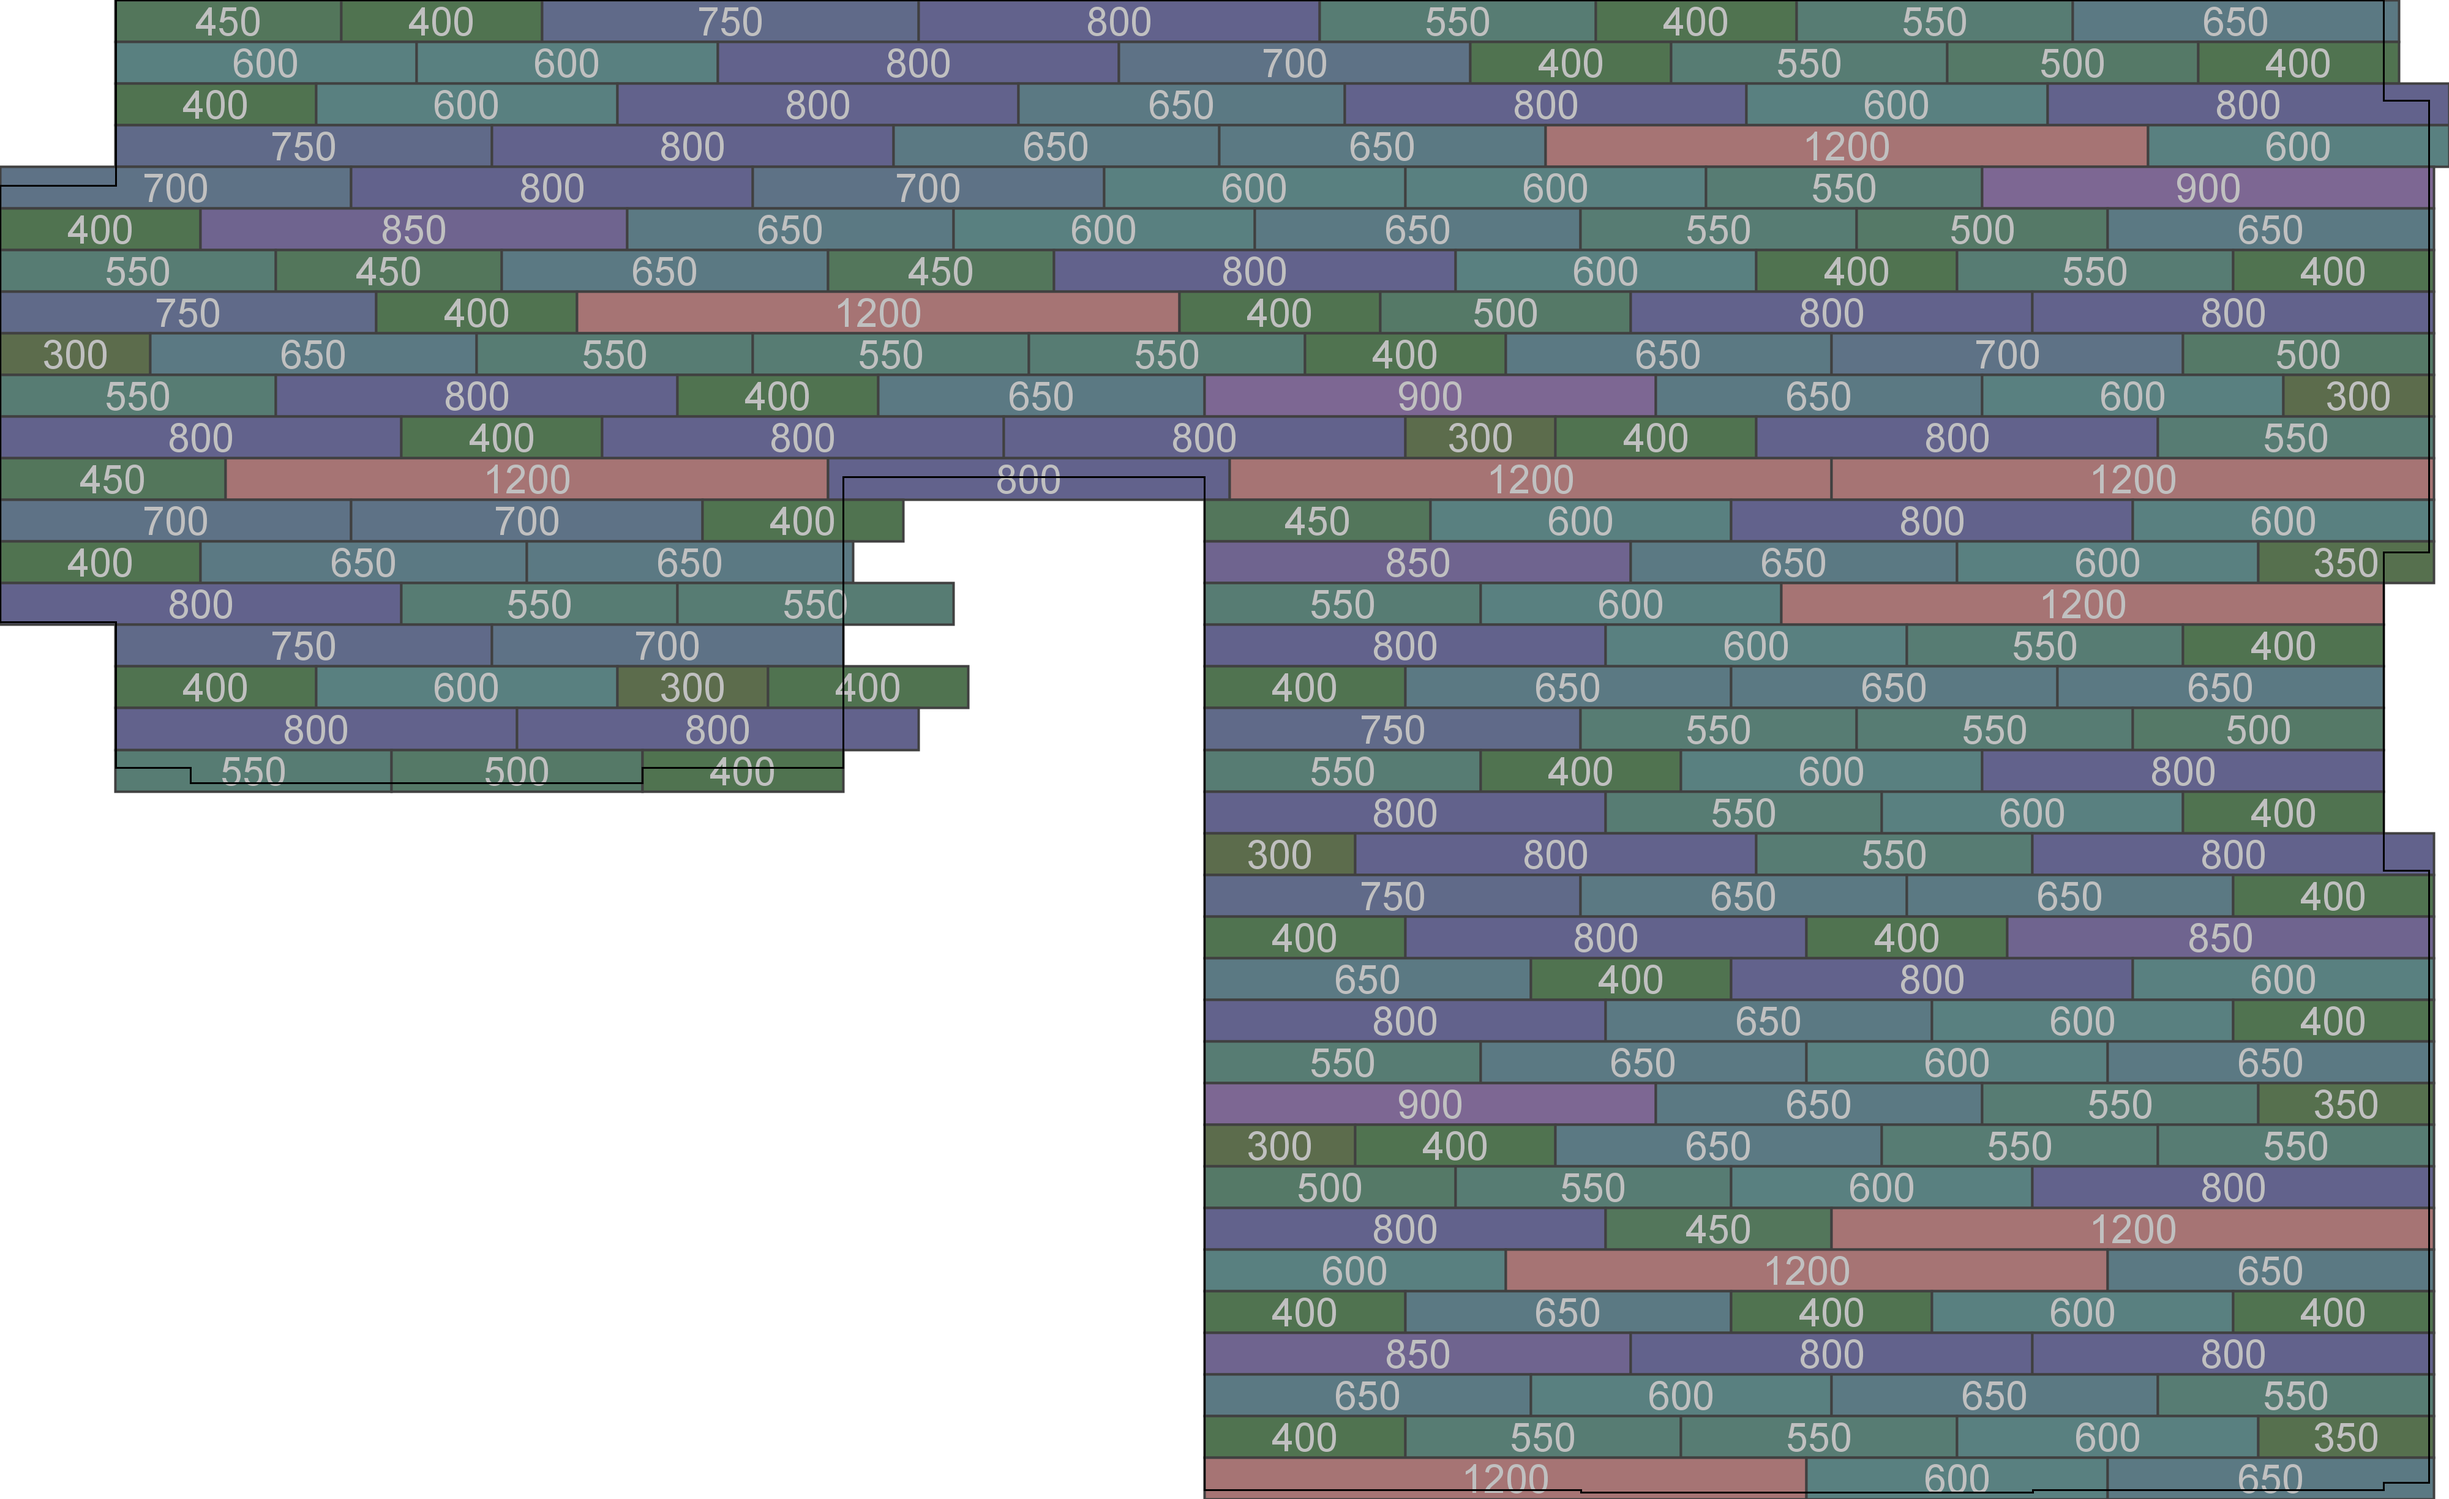
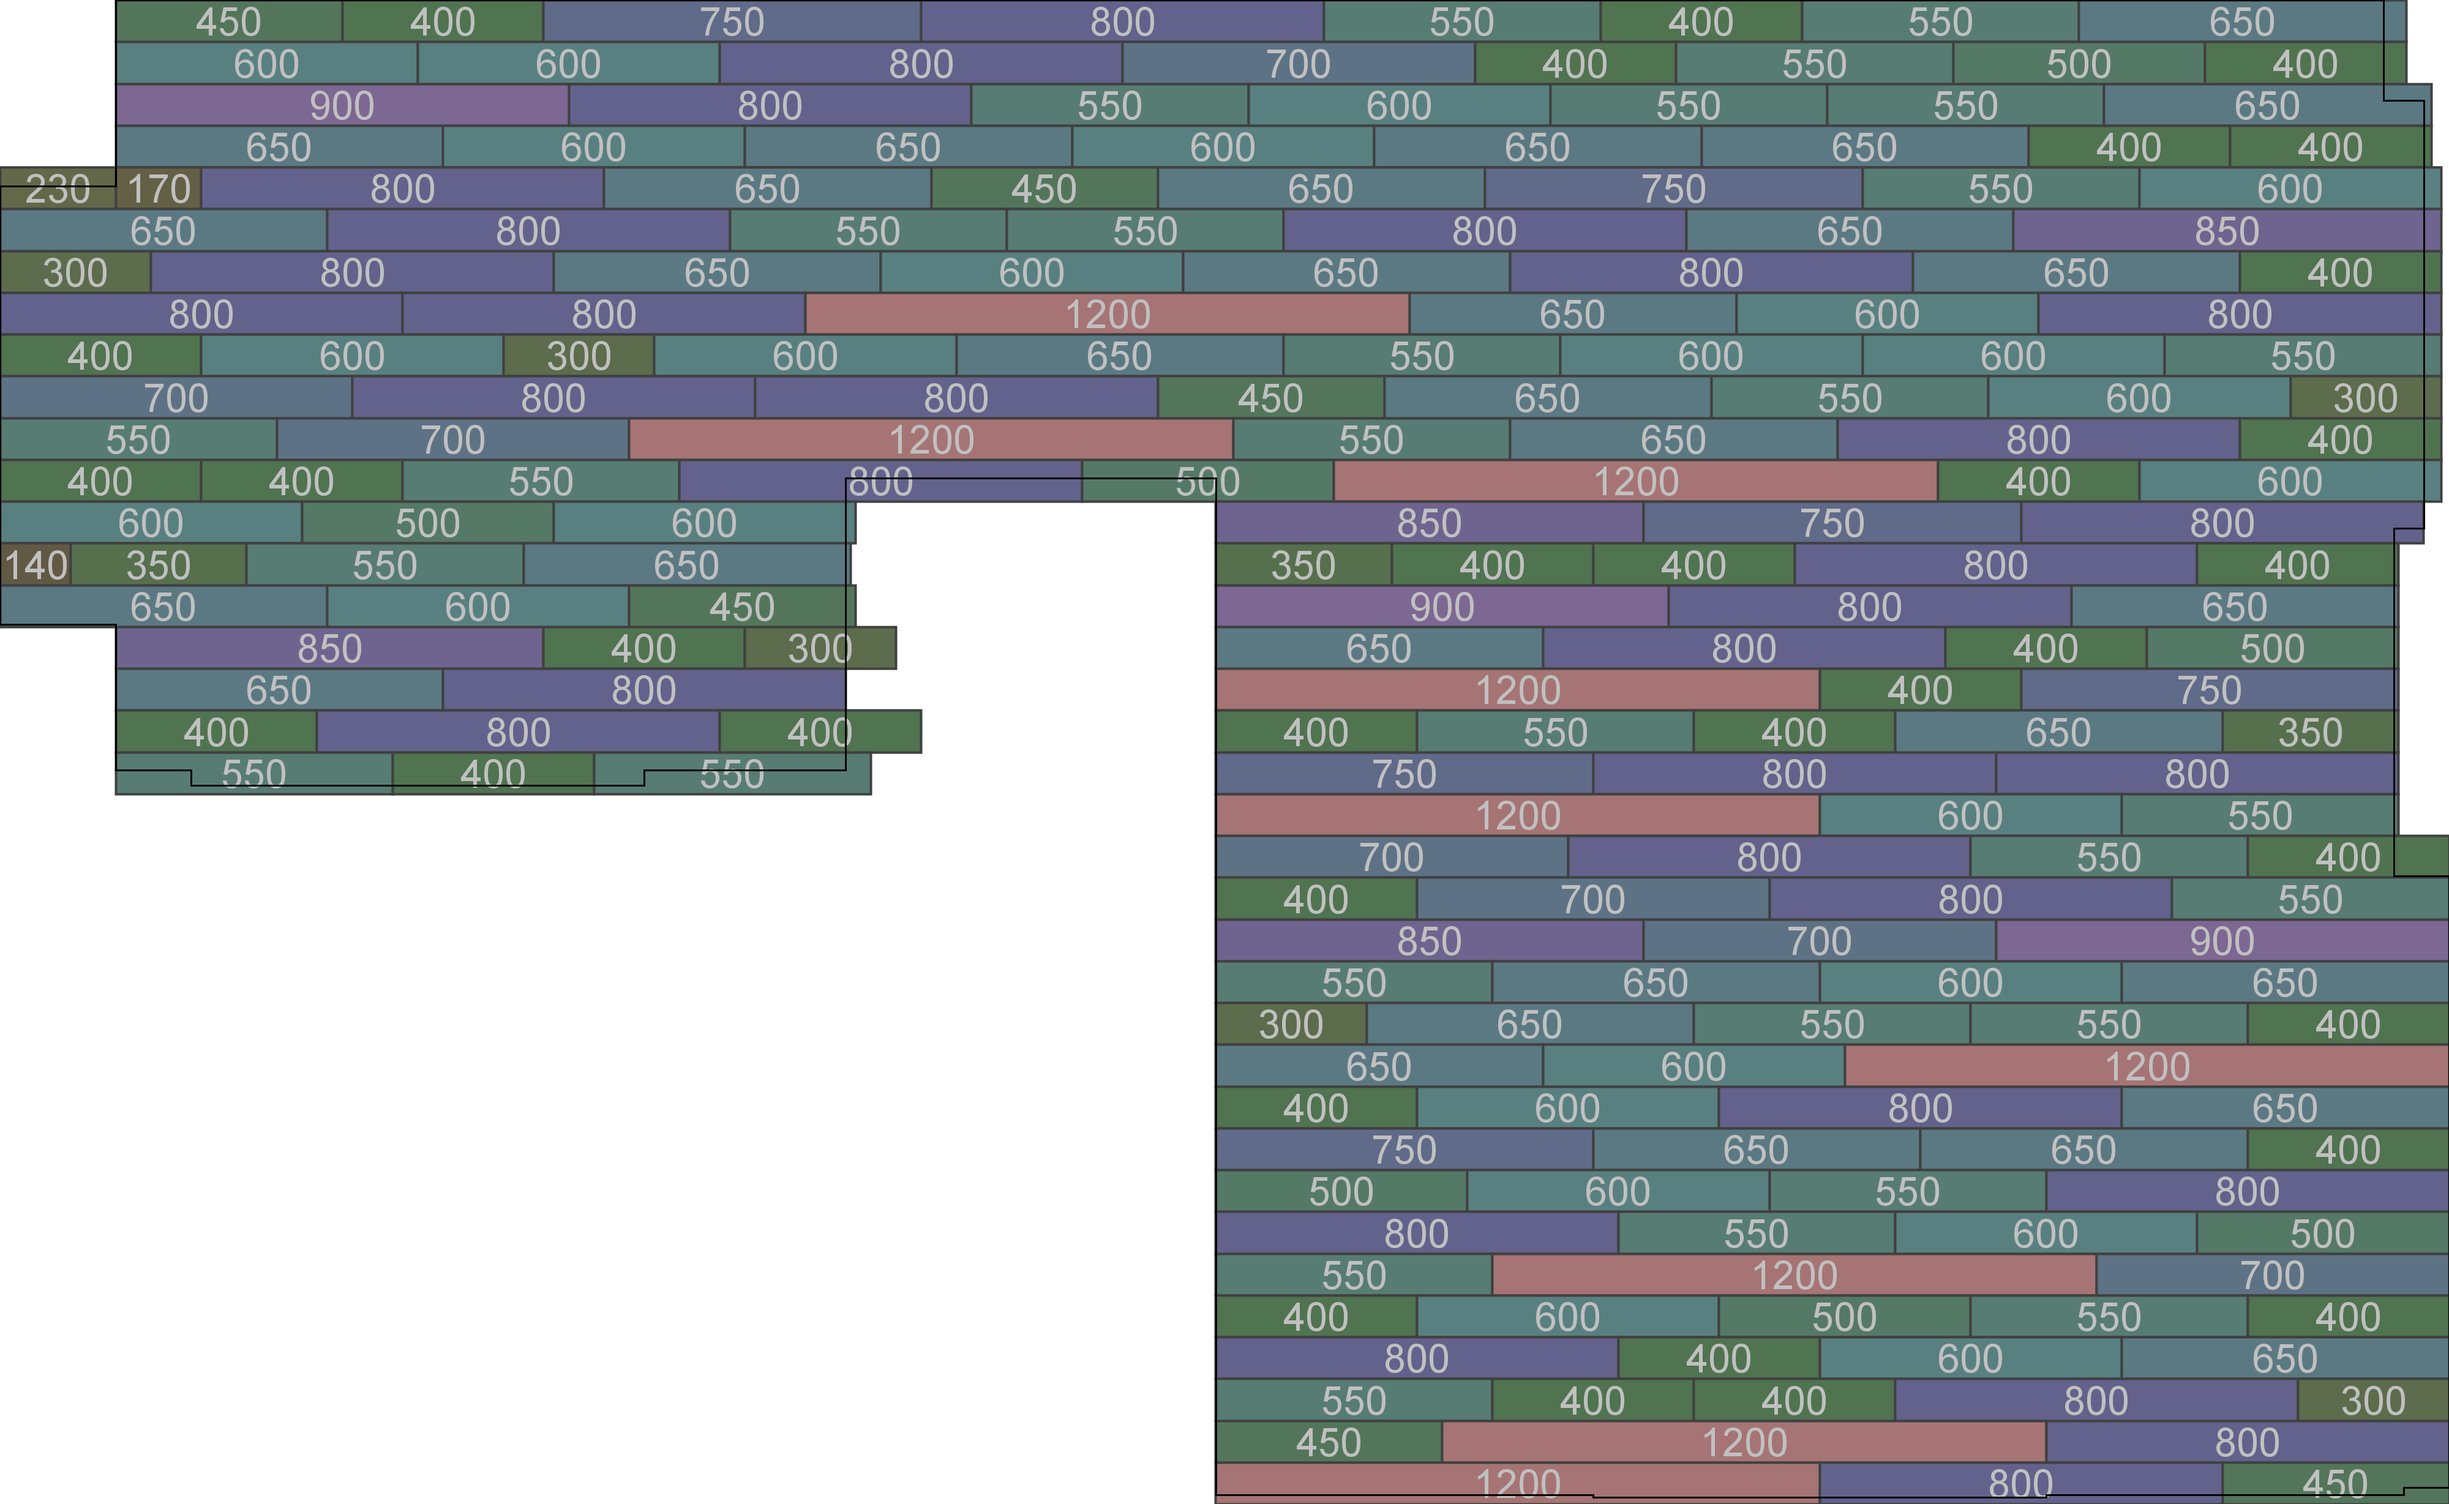
bug fix, manual tweaks to layout

diff --git a/src/main/java/org/burnhams/flooring/PropertiesConfiguration.java b/src/main/java/org/burnhams/flooring/PropertiesConfiguration.java
@@ -35,6 +35,10 @@ public class PropertiesConfiguration implements Configuration {
         return getIntegers("plank.fixed");
     }
 
+    public int[] getUsedPlanks() {
+        return getIntegers("plank.used");
+    }
+
 
     private WallEnclosedFloor getWallEnclosedFloor() {
         if (properties.containsKey("floor.horizontalLength")) {
@@ -101,11 +105,14 @@ public class PropertiesConfiguration implements Configuration {
 
     public Map<Integer, Integer> getPlankLengths() {
         Map<Integer, Integer> result = new HashMap<>();
-        String[] lengths = properties.getProperty("plank.lengths").split(",");
-        for (String length : lengths) {
-            int l = Integer.valueOf(length);
+        int[] lengths = getIntegers("plank.lengths");
+        for (int l: lengths) {
             int c = getInteger("plank."+l);
             result.put(l,c);
+        }
+        int[] used = getUsedPlanks();
+        for (int u : used) {
+            result.put(u, result.get(u)-1);
         }
         return result;
     }

diff --git a/src/main/java/org/burnhams/flooring/FloorSolution.java b/src/main/java/org/burnhams/flooring/FloorSolution.java
@@ -419,8 +419,7 @@ public class FloorSolution extends Solution<Plank> implements PreEvaluatable {
     public int getUnswappableRows() {
         int fixedLength = fixedSize();
         for (int i = 0; i <= rows; i++) {
-            fixedLength -= rowOffsets[i];
-            if (fixedLength <= 0) {
+            if (fixedLength - rowOffsets[i] <= 0) {
                 return i;
             }
         }
